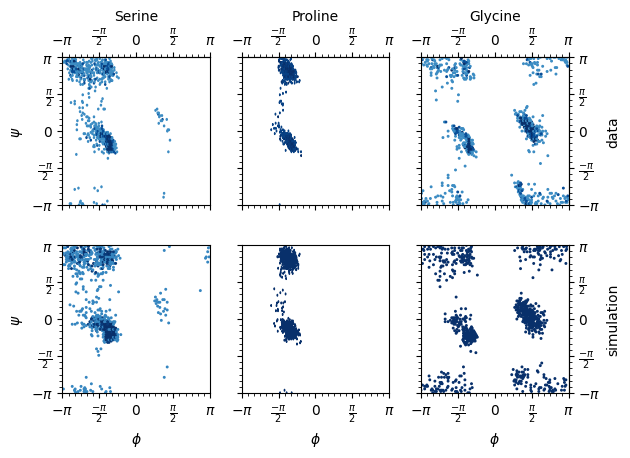
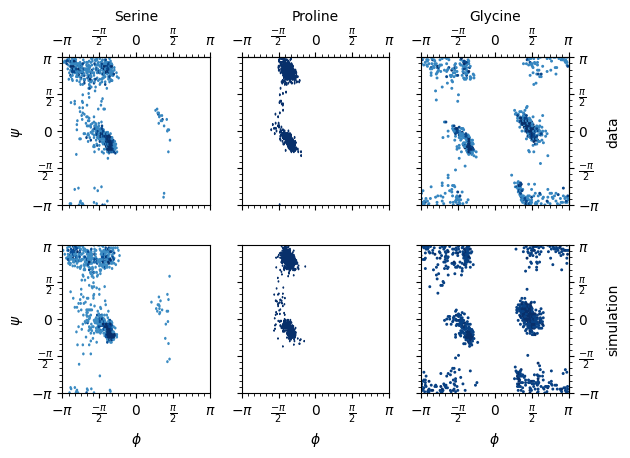
Fixed norm const for SBVM (#1899)
* fixed SBVM norm_const

* updated SBVM norm const to use hardcoded number of terms for bessel approx

* make it clear that sbvm \rho can be postive and negative

* updated ssbvm example with new sbvm norm

* lint

diff --git a/examples/ssbvm_mixture.py b/examples/ssbvm_mixture.py
@@ -133,18 +133,15 @@ def ss_model(data, num_data, num_mix_comp=2):
         sine = SineBivariateVonMises(
             phi_loc=phi_loc[assign],
             psi_loc=psi_loc[assign],
-            # These concentrations are an order of magnitude lower than expected (550-1000)!
-            phi_concentration=70 * phi_conc[assign],
-            psi_concentration=70 * psi_conc[assign],
+            phi_concentration=1000 * phi_conc[assign],
+            psi_concentration=1000 * psi_conc[assign],
             weighted_correlation=corr_scale[assign],
         )
         return numpyro.sample("phi_psi", SineSkewed(sine, skewness[assign]), obs=data)
 
 
 def run_hmc(rng_key, model, data, num_mix_comp, args, bvm_init_locs):
-    kernel = NUTS(
-        model, init_strategy=init_to_value(values=bvm_init_locs), max_tree_depth=7
-    )
+    kernel = NUTS(model, init_strategy=init_to_value(values=bvm_init_locs))
     mcmc = MCMC(kernel, num_samples=args.num_samples, num_warmup=args.num_warmup)
     mcmc.run(rng_key, data, len(data), num_mix_comp)
     mcmc.print_summary()
@@ -162,7 +159,7 @@ def num_mix_comps(amino_acid):
     return num_mix.get(amino_acid, 9)
 
 
-def ramachandran_plot(data, pred_data, aas, file_name="ssbvm_mixture.pdf"):
+def ramachandran_plot(data, pred_data, aas, file_name="ssbvm_mixture.png"):
     amino_acids = {"S": "Serine", "P": "Proline", "G": "Glycine"}
     fig, axss = plt.subplots(2, len(aas))
     cdata = data

diff --git a/numpyro/distributions/directional.py b/numpyro/distributions/directional.py
@@ -308,10 +308,12 @@ class SineBivariateVonMises(Distribution):
     .. note:: Sample efficiency drops as
 
         .. math::
-            \frac{\rho}{\kappa_1\kappa_2} \rightarrow 1
+            \frac{\rho^2}{\kappa_1\kappa_2} \rightarrow 1
 
-        because the distribution becomes increasingly bimodal. To avoid bimodality use the `weighted_correlation`
-        parameter with a skew away from one (e.g., Beta(1,3)). The `weighted_correlation` should be in [0,1].
+        because the distribution becomes increasingly bimodal. To avoid inefficient sampling use the
+        `weighted_correlation` parameter with a skew away from one (e.g.,
+        `TransformedDistribution(Beta(5,5), AffineTransform(loc=-1, scale=2))`).  The `weighted_correlation`
+        should be in [-1,1].
 
     .. note:: The correlation and weighted_correlation params are mutually exclusive.
 
@@ -404,7 +406,8 @@ class SineBivariateVonMises(Distribution):
             jnp.log(jnp.clip(corr**2, jnp.finfo(jnp.result_type(float)).tiny))
             - jnp.log(4 * jnp.prod(conc, axis=-1))
         )
-        fs += log_I1(49, conc, terms=51).sum(-1)
+        num_I1terms = 10_001
+        fs += log_I1(49, conc, terms=num_I1terms).sum(-1)
         norm_const = 2 * jnp.log(jnp.array(2 * pi)) + logsumexp(fs, 0)
         return norm_const.reshape(jnp.shape(self.phi_loc))
 

diff --git a/test/test_distributions.py b/test/test_distributions.py
@@ -3464,3 +3464,16 @@ def test_gaussian_random_walk_linear_recursive_equivalence():
     x2 = dist2.sample(random.PRNGKey(7))
     assert jnp.allclose(x1, x2.squeeze())
     assert jnp.allclose(dist1.log_prob(x1), dist2.log_prob(x2))
+
+
+@pytest.mark.parametrize("conc", [1.0, 10.0, 1000.0, 10000.0])
+def test_sine_bivariate_von_mises_norm(conc):
+    dist = SineBivariateVonMises(0, 0, conc, conc, 0.0)
+    num_samples = 500
+    x = jnp.linspace(-jnp.pi, jnp.pi, num_samples)
+    y = jnp.linspace(-jnp.pi, jnp.pi, num_samples)
+    mesh = jnp.stack(jnp.meshgrid(x, y), axis=-1)
+    integral_torus = (
+        jnp.exp(dist.log_prob(mesh)) * (2 * jnp.pi) ** 2 / num_samples**2
+    ).sum()
+    assert jnp.allclose(integral_torus, 1.0, rtol=1e-2)
